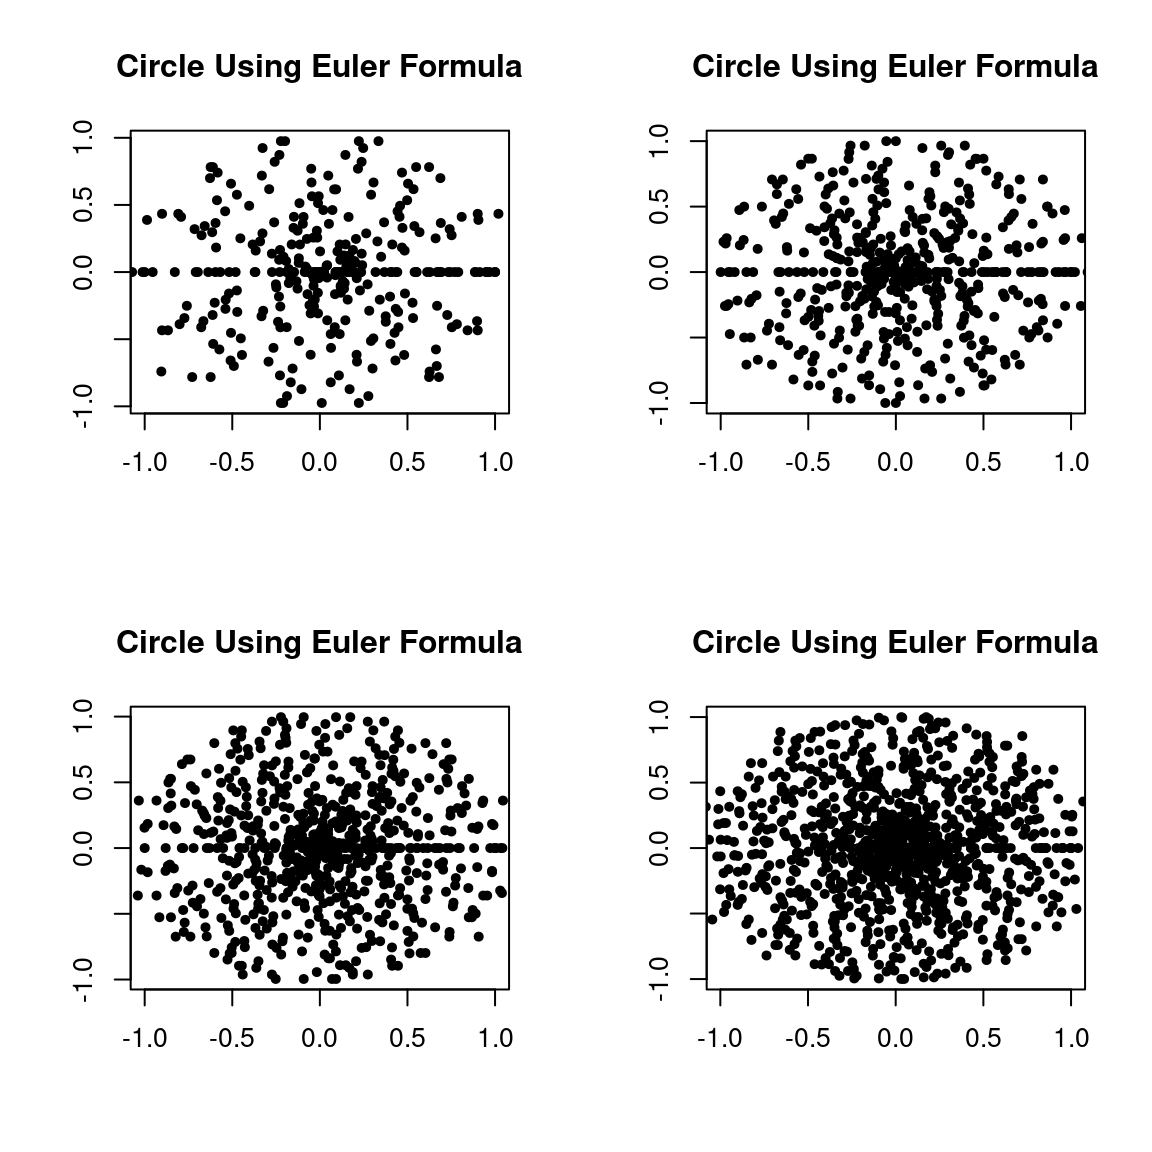
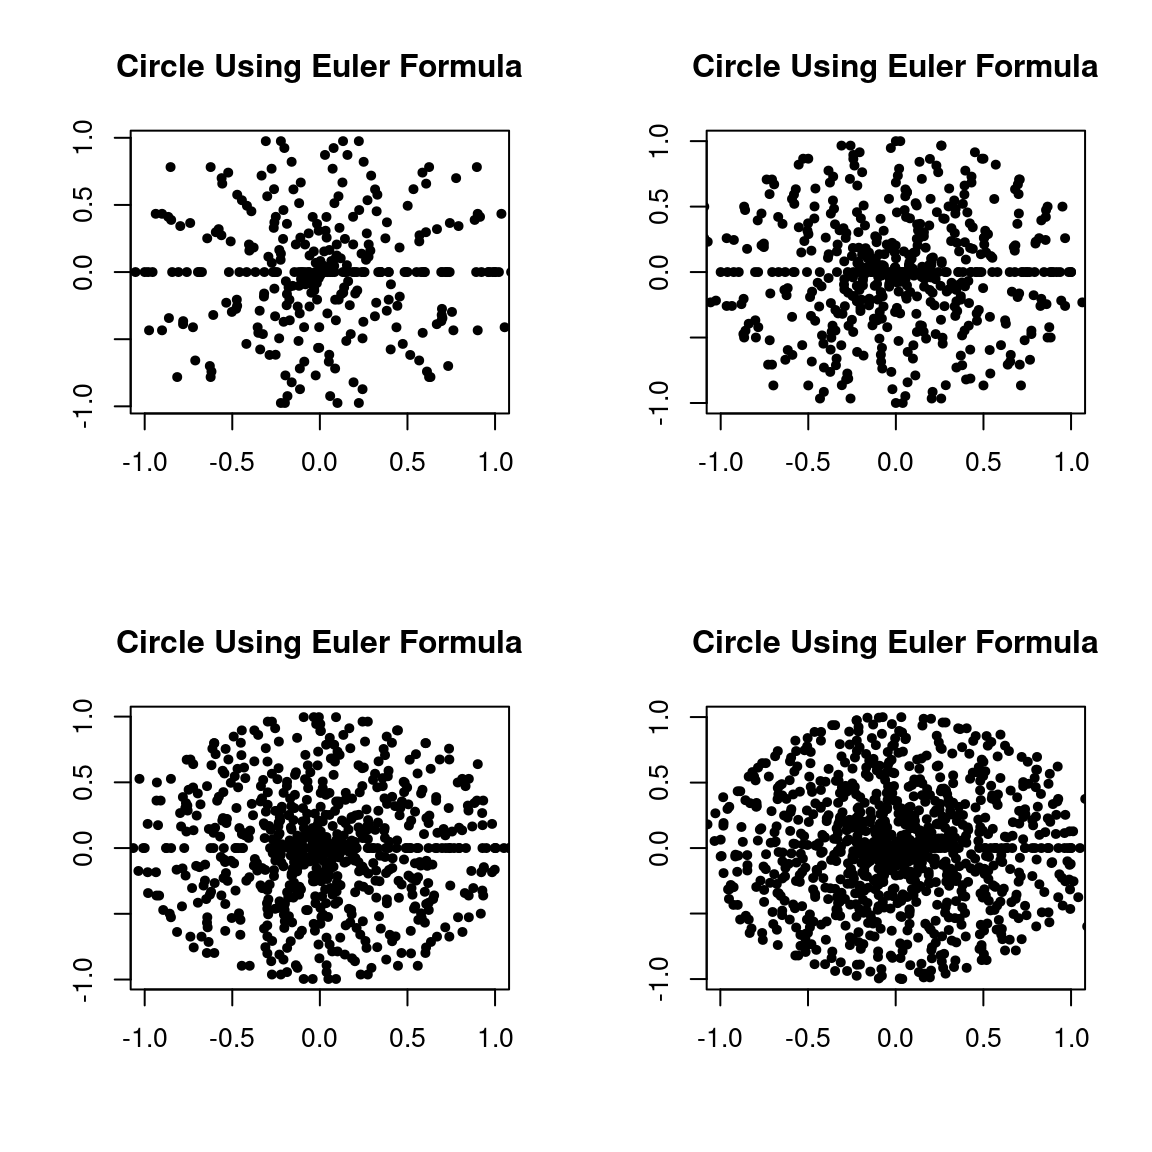
add quartiles

diff --git a/slide/dispersion.html b/slide/dispersion.html
@@ -11,7 +11,7 @@
   <meta name="generator" content="quarto-1.5.53">
 
   <meta name="author" content="Abdullah Al Mahmud">
-  <meta name="dcterms.date" content="2026-04-02">
+  <meta name="dcterms.date" content="2026-04-05">
   <title>Stat Mania Lectures – Measures of Dispersion</title>
   <meta name="apple-mobile-web-app-capable" content="yes">
   <meta name="apple-mobile-web-app-status-bar-style" content="black-translucent">
@@ -341,7 +341,7 @@ Abdullah Al Mahmud
 </div>
 </div>
 
-  <p class="date">2026-04-02</p>
+  <p class="date">2026-04-05</p>
 </section>
 <section id="why-dispersion" class="title-slide slide level1 center">
 <h1>Why Dispersion?</h1>
@@ -388,18 +388,13 @@ Abdullah Al Mahmud
 </div>
 </section>
 
+<section>
 <section id="which-is-more-scattered" class="title-slide slide level1 center">
 <h1>Which is more scattered?</h1>
 <ul>
 <li class="fragment">X: 10, 12, 15, 20</li>
 <li class="fragment">Y: 10, 50, 170, 470</li>
 </ul>
-</section>
-
-<section>
-<section id="measures-of-dispersion" class="title-slide slide level1 center">
-<h1>Measures of Dispersion</h1>
-
 </section>
 <section id="absolute-measures" class="slide level2">
 <h2>Absolute Measures</h2>
@@ -426,15 +421,24 @@ Abdullah Al Mahmud
 </section>
 <section id="range" class="slide level2">
 <h2>Range</h2>
-<p><span class="math inline">\(R = X_H - X_L\)</span></p>
+<ul>
+<li class="fragment">Ungrouped Data: <span class="math inline">\(R = X_H - X_L\)</span></li>
+<li class="fragment">Grouped Data: <span class="math inline">\(R = L_n - L_1\)</span></li>
+</ul>
 </section>
 <section id="mean-deviation-md" class="slide level2">
 <h2>Mean Deviation (MD)</h2>
 <p>Around mean, <span class="math inline">\(\displaystyle MD(\bar x)=\frac{1}{n}{\sum_{i=1}^{n} |x_i - \bar{x}|}\)</span></p>
 <ul>
-<li class="fragment">For grouped data, <span class="math inline">\(\displaystyle MD(\bar x) = \frac{1}{n}{\sum_{i=1}^{n} f_i|x_i - \bar{x}|}\)</span></li>
-<li class="fragment">Similarly around median and mode (Me and Mo)</li>
+<li class="fragment">For grouped data, <span class="math inline">\(\displaystyle MD(\bar x) = \frac{1}{N}{\sum_{i=1}^{n} f_i|x_i - \bar{x}|}\)</span></li>
+<li class="fragment">Around Median, <span class="math inline">\(\rightarrow MD (Me) = ?\)</span></li>
+<li class="fragment">Around Mode, <span class="math inline">\(\rightarrow MD (Mo) = ?\)</span></li>
 </ul>
+</section>
+<section id="think" class="slide level2">
+<h2>Think!</h2>
+<p>What if?</p>
+<p><span class="math inline">\(\displaystyle MD(\bar x)=\frac{1}{n}{\sum_{i=1}^{n} (x_i - \bar{x})}\)</span></p>
 </section>
 <section id="grouped-data" class="slide level2">
 <h2>Grouped Data</h2>
@@ -474,7 +478,7 @@ Abdullah Al Mahmud
 <h2>Variance and Standard Deviation</h2>
 <p>Variance, <span class="math inline">\(\displaystyle \sigma^2 = \frac{1}{n} \sum_{i=1}^n (x_i - \bar{x})^2\)</span></p>
 <ul>
-<li class="fragment"><span class="math inline">\(\displaystyle \sigma^2 = \frac{\sum x_i^2}{n} - \left(\frac{\sum x_i}{n}\right)^2\)</span></li>
+<li class="fragment">Also, <span class="math inline">\(\displaystyle \sigma^2 = \frac{\sum x_i^2}{n} - \left(\frac{\sum x_i}{n}\right)^2\)</span></li>
 <li class="fragment">Mean of square - square of mean</li>
 <li class="fragment"><span class="math inline">\(\bar {x^2} - (\bar x)^2\)</span></li>
 <li class="fragment">SD = <span class="math inline">\(\sqrt{Variance}\)</span></li>
@@ -488,178 +492,17 @@ Abdullah Al Mahmud
 <li class="fragment">Coefficient of Quartile Deviation, <span class="math inline">\(QD = \frac{Q_3-Q_1}{Q_3+Q_1} \times 100\)</span></li>
 <li class="fragment">Coefficient of Variance (Best), <span class="math inline">\(CV = \frac{\sigma}{\bar x} \times 100\)</span></li>
 </ul>
-</section></section>
-<section>
-<section id="measures" class="title-slide slide level1 center">
-<h1>Measures</h1>
+</section>
+<section id="quartiles" class="slide level2">
+<h2>Quartiles</h2>
+<p>Recall Median Formula</p>
 <ul>
-<li class="fragment"><span class="math inline">\(\displaystyle \text{Mean Deviation about Mean} = \frac{\sum_{i=1}^{N} |x_i - \bar{x}|}{N}\)</span></li>
-<li class="fragment"><span class="math inline">\(\displaystyle \text{Mean Deviation about Median} = \frac{1}{N} \sum_{i=1}^{N} |x_i - \text{Med}|\)</span></li>
-<li class="fragment"><span class="math inline">\(\displaystyle \text{Mean Deviation about Mode} = \frac{1}{N} \sum_{i=1}^{N} |x_i - \text{Mo}|\)</span></li>
-<li class="fragment"><span class="math inline">\(\displaystyle \text{Variance} = \frac{1}{N} \sum_{i=1}^{N} (x_i - \bar{x})^2\)</span></li>
+<li class="fragment">When <span class="math inline">\(n\)</span> is odd, <span class="math inline">\(Me = \frac{n+1}{2}th\)</span> term</li>
+<li class="fragment">When <span class="math inline">\(n\)</span> is even, <span class="math inline">\(Me = \frac{\frac{n}{2}th}+(\frac{n}{2}+1)th {2}\)</span></li>
 </ul>
 </section>
-<section id="variance-simplified" class="slide level2">
-<h2>Variance Simplified</h2>
-<ul>
-<li class="fragment"><span class="math inline">\(\displaystyle \text{Variance} = \frac{1}{N} \sum_{i=1}^{N} (x_i - \bar{x})^2\)</span></li>
-<li class="fragment"><span class="math inline">\(\displaystyle \text{Variance} = \frac{1}{N} \left( \sum_{i=1}^{N} x_i^2 - 2\bar{x} \sum_{i=1}^{N} x_i + N\bar{x}^2 \right)\)</span></li>
-</ul>
-</section>
-<section id="variance-two-formulas" class="slide level2">
-<h2>Variance Two Formulas</h2>
-<ul>
-<li class="fragment"><span class="math inline">\(\displaystyle \text{Variance} = \frac{1}{n} \sum_{i=1}^{n} (x_i - \bar{x})^2\)</span></li>
-<li class="fragment"><span class="math inline">\(\displaystyle \text{Variance} = \frac {\sum_{i=1}^{n}x_i^2}{n}   - (\bar{x})^2\)</span></li>
-<li class="fragment">Mean of Square - Square of Mean</li>
-</ul>
-</section></section>
-<section>
-<section id="calculation" class="title-slide slide level1 center">
-<h1>Calculation</h1>
-<p>Suppose we have these values</p>
-<p>12, 14, 15, 15, 19</p>
-<p>Use absolute sign</p>
-<table class="caption-top">
-<colgroup>
-<col style="width: 5%">
-<col style="width: 18%">
-<col style="width: 22%">
-<col style="width: 21%">
-<col style="width: 11%">
-<col style="width: 20%">
-</colgroup>
-<thead>
-<tr class="header">
-<th>x</th>
-<th>( x - {x} )</th>
-<th>( x - )</th>
-<th>( x - )</th>
-<th>( x^2 )</th>
-<th>( (x - {x})^2 )</th>
-</tr>
-</thead>
-<tbody>
-<tr class="odd">
-<td>12</td>
-<td>12 - 15 = -3</td>
-<td>12 - 15 = -3</td>
-<td>12 - 15 = -3</td>
-<td>144</td>
-<td>9</td>
-</tr>
-<tr class="even">
-<td>14</td>
-<td></td>
-<td></td>
-<td></td>
-<td></td>
-<td></td>
-</tr>
-<tr class="odd">
-<td>15</td>
-<td></td>
-<td></td>
-<td></td>
-<td></td>
-<td></td>
-</tr>
-<tr class="even">
-<td>15</td>
-<td></td>
-<td></td>
-<td></td>
-<td></td>
-<td></td>
-</tr>
-<tr class="odd">
-<td>19</td>
-<td></td>
-<td></td>
-<td></td>
-<td></td>
-<td></td>
-</tr>
-</tbody>
-</table>
-</section>
-<section id="for-grouped-data" class="slide level2">
-<h2>For Grouped Data</h2>
-<table class="caption-top">
-<thead>
-<tr class="header">
-<th>(x )</th>
-<th>( f_i )</th>
-</tr>
-</thead>
-<tbody>
-<tr class="odd">
-<td>12</td>
-<td>1</td>
-</tr>
-<tr class="even">
-<td>14</td>
-<td>1</td>
-</tr>
-<tr class="odd">
-<td>15</td>
-<td>2</td>
-</tr>
-<tr class="even">
-<td>19</td>
-<td>1</td>
-</tr>
-</tbody>
-</table>
-</section>
-<section id="calculation-1" class="slide level2">
-<h2>Calculation</h2>
-<table class="caption-top">
-<colgroup>
-<col style="width: 12%">
-<col style="width: 18%">
-<col style="width: 33%">
-<col style="width: 36%">
-</colgroup>
-<thead>
-<tr class="header">
-<th>(x_i)</th>
-<th>( f_i )</th>
-<th>( f_i x_i )</th>
-<th>( f_i x_i^2 )</th>
-</tr>
-</thead>
-<tbody>
-<tr class="odd">
-<td>12</td>
-<td>1</td>
-<td></td>
-<td></td>
-</tr>
-<tr class="even">
-<td>14</td>
-<td>1</td>
-<td></td>
-<td></td>
-</tr>
-<tr class="odd">
-<td>15</td>
-<td>2</td>
-<td></td>
-<td></td>
-</tr>
-<tr class="even">
-<td>19</td>
-<td>1</td>
-<td></td>
-<td></td>
-</tr>
-</tbody>
-</table>
-<ul>
-<li class="fragment"><span class="math inline">\(\text{Variance} = \frac{\sum_{i=1}^{n} f_i (x_i - \bar{x})^2}{\sum_{i=1}^{n} f_i}\)</span></li>
-<li class="fragment"><span class="math inline">\(\text{Variance} = \frac{\sum_{i=1}^{n} f_i x_i^2}{\sum_{i=1}^{n} f_i} - \bar{x}^2\)</span></li>
-</ul>
+<section id="quartiles-for-grouped-data" class="slide level2">
+<h2>Quartiles for Grouped Data</h2>
 
 <div class="quarto-auto-generated-content">
 <p><img src="css/logo.png" class="slide-logo"></p>

diff --git a/slide/css/styles.css b/slide/css/styles.css
@@ -2,6 +2,7 @@
 /* Position the corporate logo in the top right of the page */
 
 /* BG Archive
+ background-image: conic-gradient(at 85% 45%, yellow, #33ff99, yellow);
  background-image: conic-gradient(at 85% 45%, #ffe6f0, #cc33ff, #ffe6f0);
  background-image: linear-gradient(to right, #79d2a6 , white);
  background-image: conic-gradient(at 85% 45%, lightgreen, green, lightgreen);
@@ -14,7 +15,7 @@
 
 
 .reveal {
-   background-image: conic-gradient(at 85% 45%, yellow, green, yellow);
+  background-image: conic-gradient(at 85% 45%, yellow, #00e699, yellow);
   background-size: cover;
   background-repeat: no-repeat;
   background-position: center;